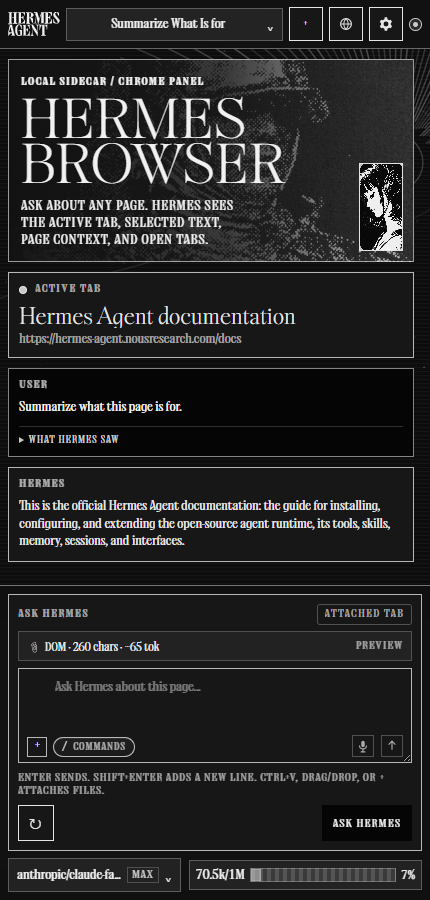
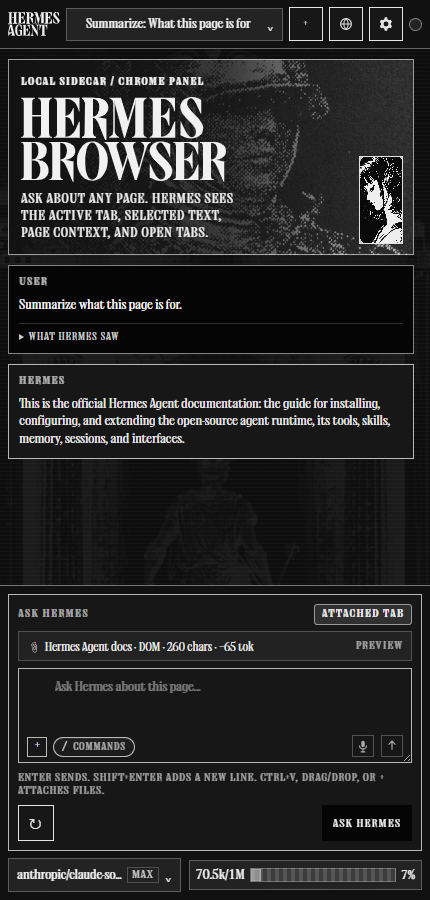
fix: improve Cyberpunk globe and refresh visual tour

diff --git a/extension/fulltab-themes.css b/extension/fulltab-themes.css
@@ -140,6 +140,11 @@ html[data-hermes-theme="midnight"] .rail-brand-video { filter: hue-rotate(28deg)
 html[data-hermes-theme="ember"] .rail-brand-video { filter: grayscale(1) sepia(1) saturate(6) hue-rotate(332deg); }
 html[data-hermes-theme="mono"] .rail-brand-video { filter: grayscale(1) contrast(1.15); }
 html[data-hermes-theme="cyberpunk"] .rail-brand-video { filter: grayscale(1) sepia(1) saturate(8) hue-rotate(78deg); }
+html[data-hermes-theme="cyberpunk"][data-hermes-mode="light"] .rail-globe-viewport { mix-blend-mode: difference; }
+html[data-hermes-theme="cyberpunk"][data-hermes-mode="light"] .rail-brand-video {
+  filter: grayscale(1) sepia(1) saturate(14) hue-rotate(280deg) brightness(0.9);
+  opacity: 0.86;
+}
 html[data-hermes-theme="slate"] .rail-brand-video { filter: grayscale(0.7) sepia(0.24) saturate(1.1) hue-rotate(158deg); }
 html[data-hermes-theme="senter-space"] .rail-brand-video { filter: grayscale(0.25) sepia(0.3) saturate(1.25) hue-rotate(130deg); }
 html[data-hermes-theme="aurora"] .rail-brand-video { filter: grayscale(0.08) sepia(0.28) saturate(2.4) hue-rotate(286deg) brightness(1.08); }